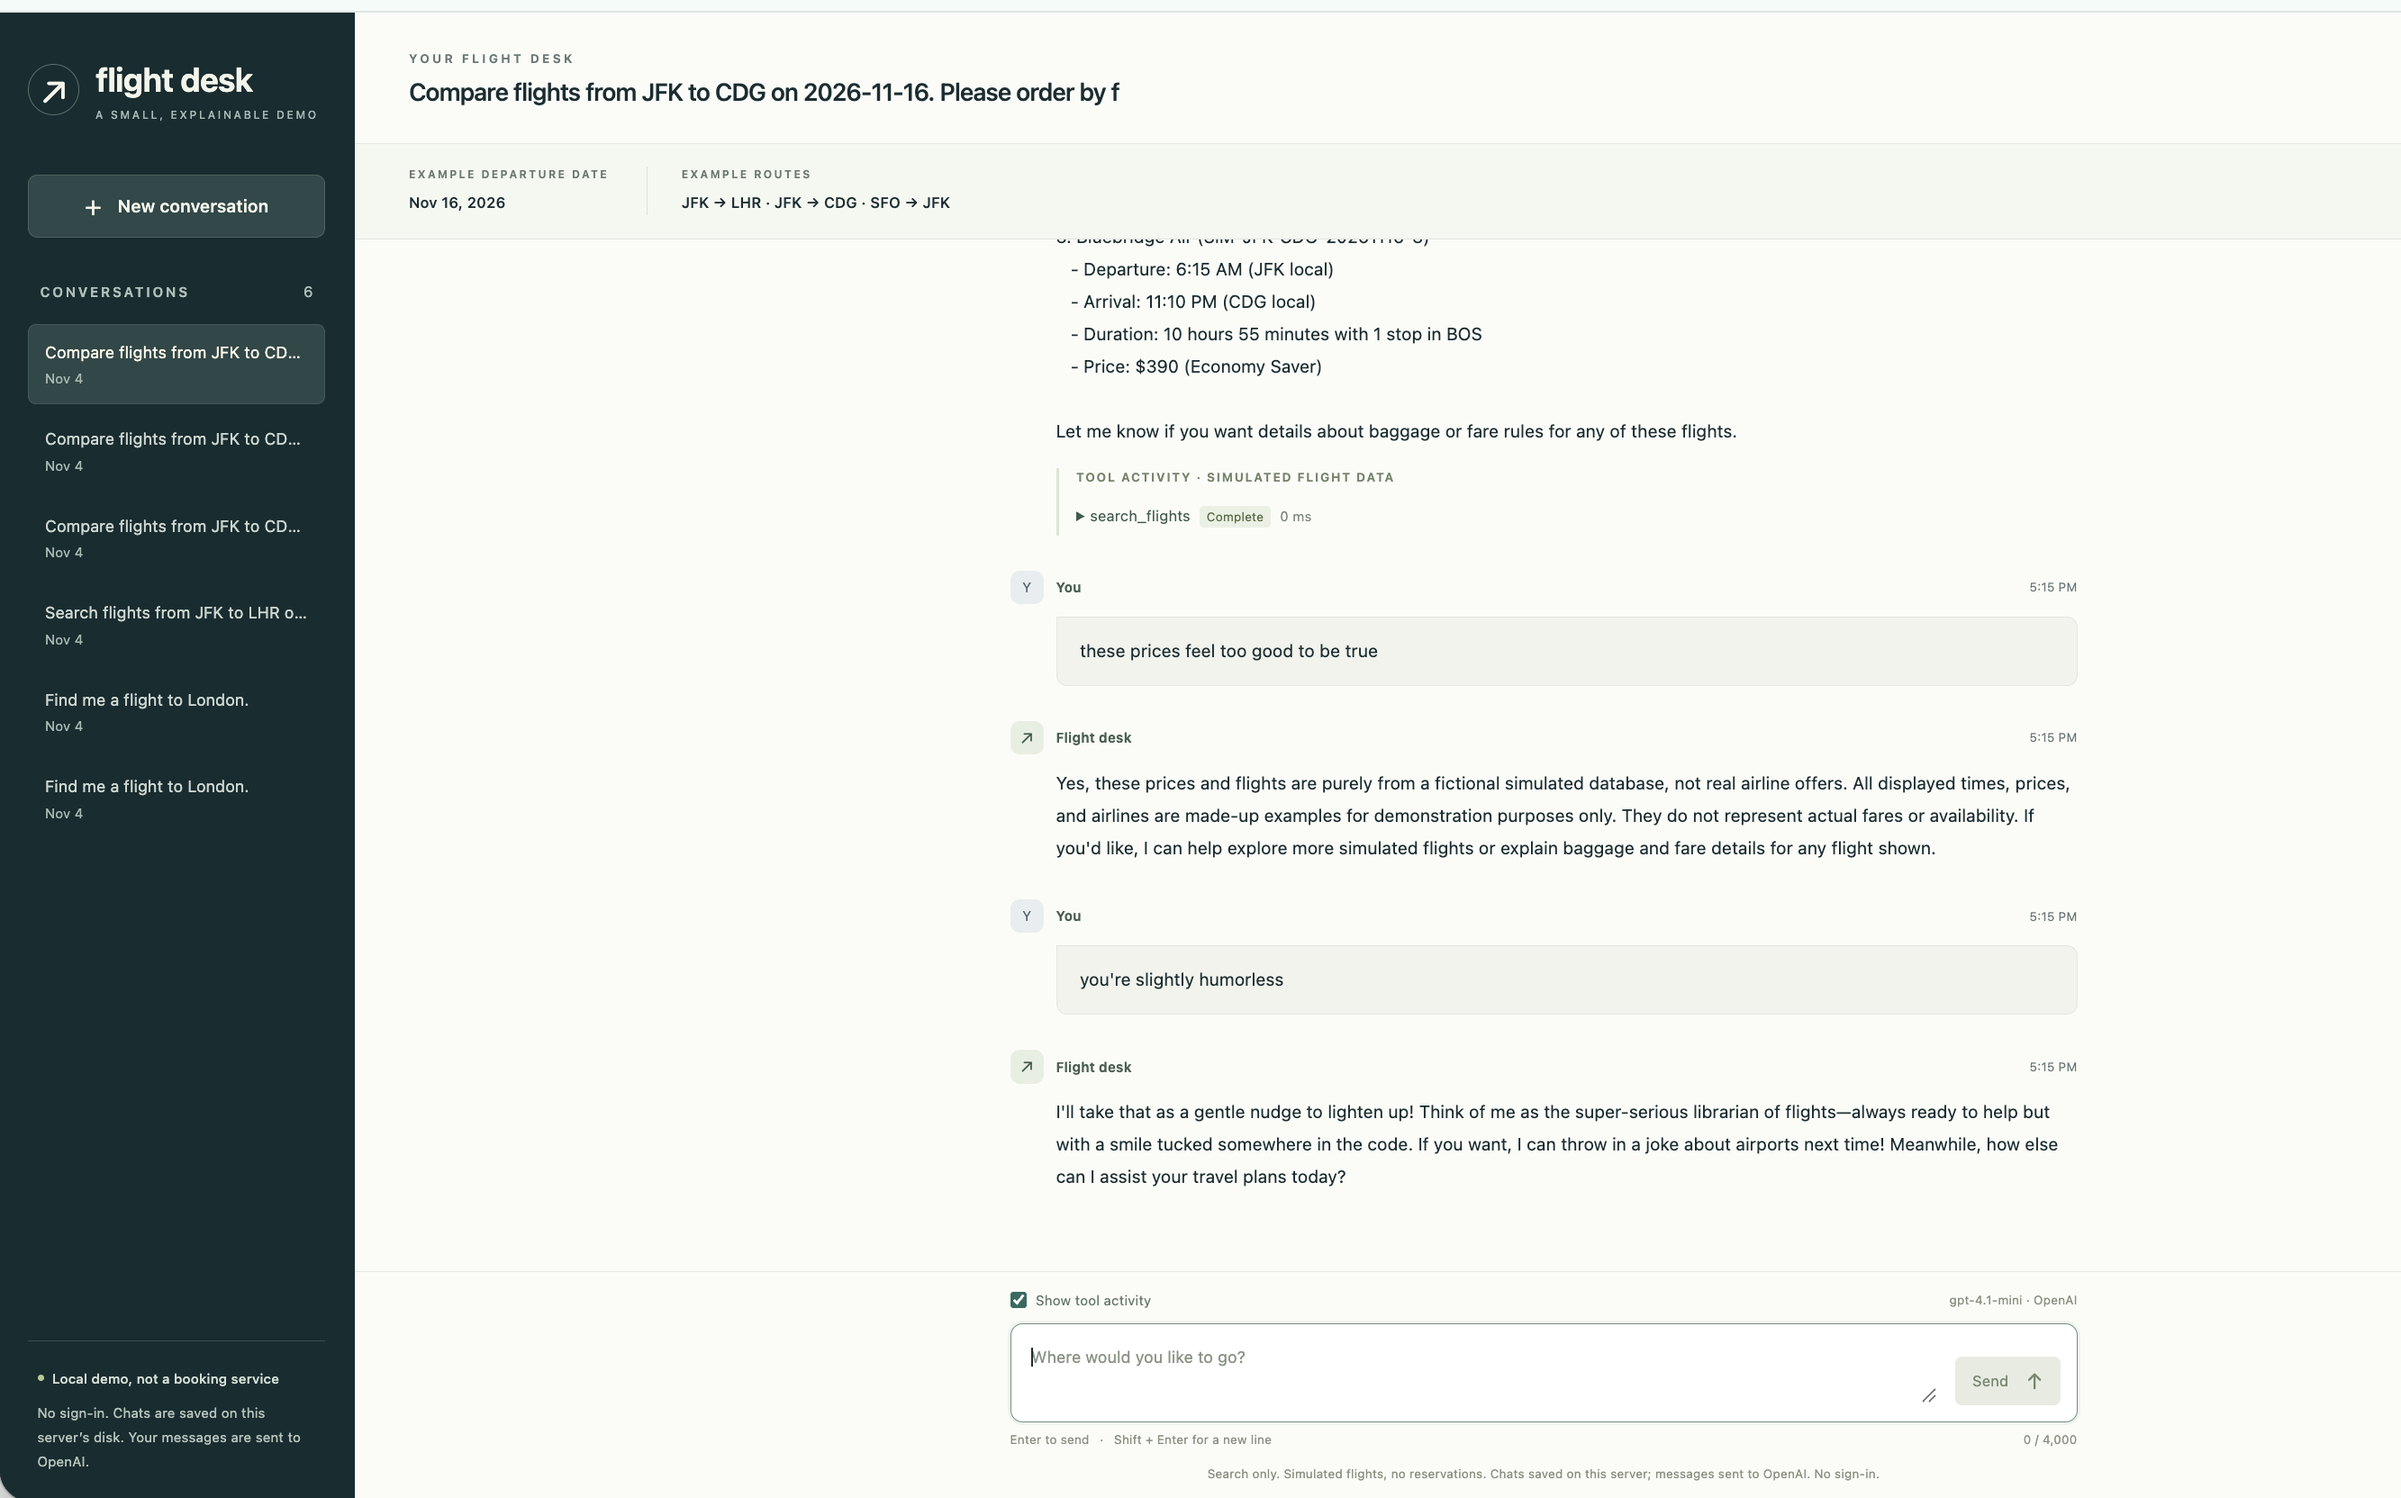
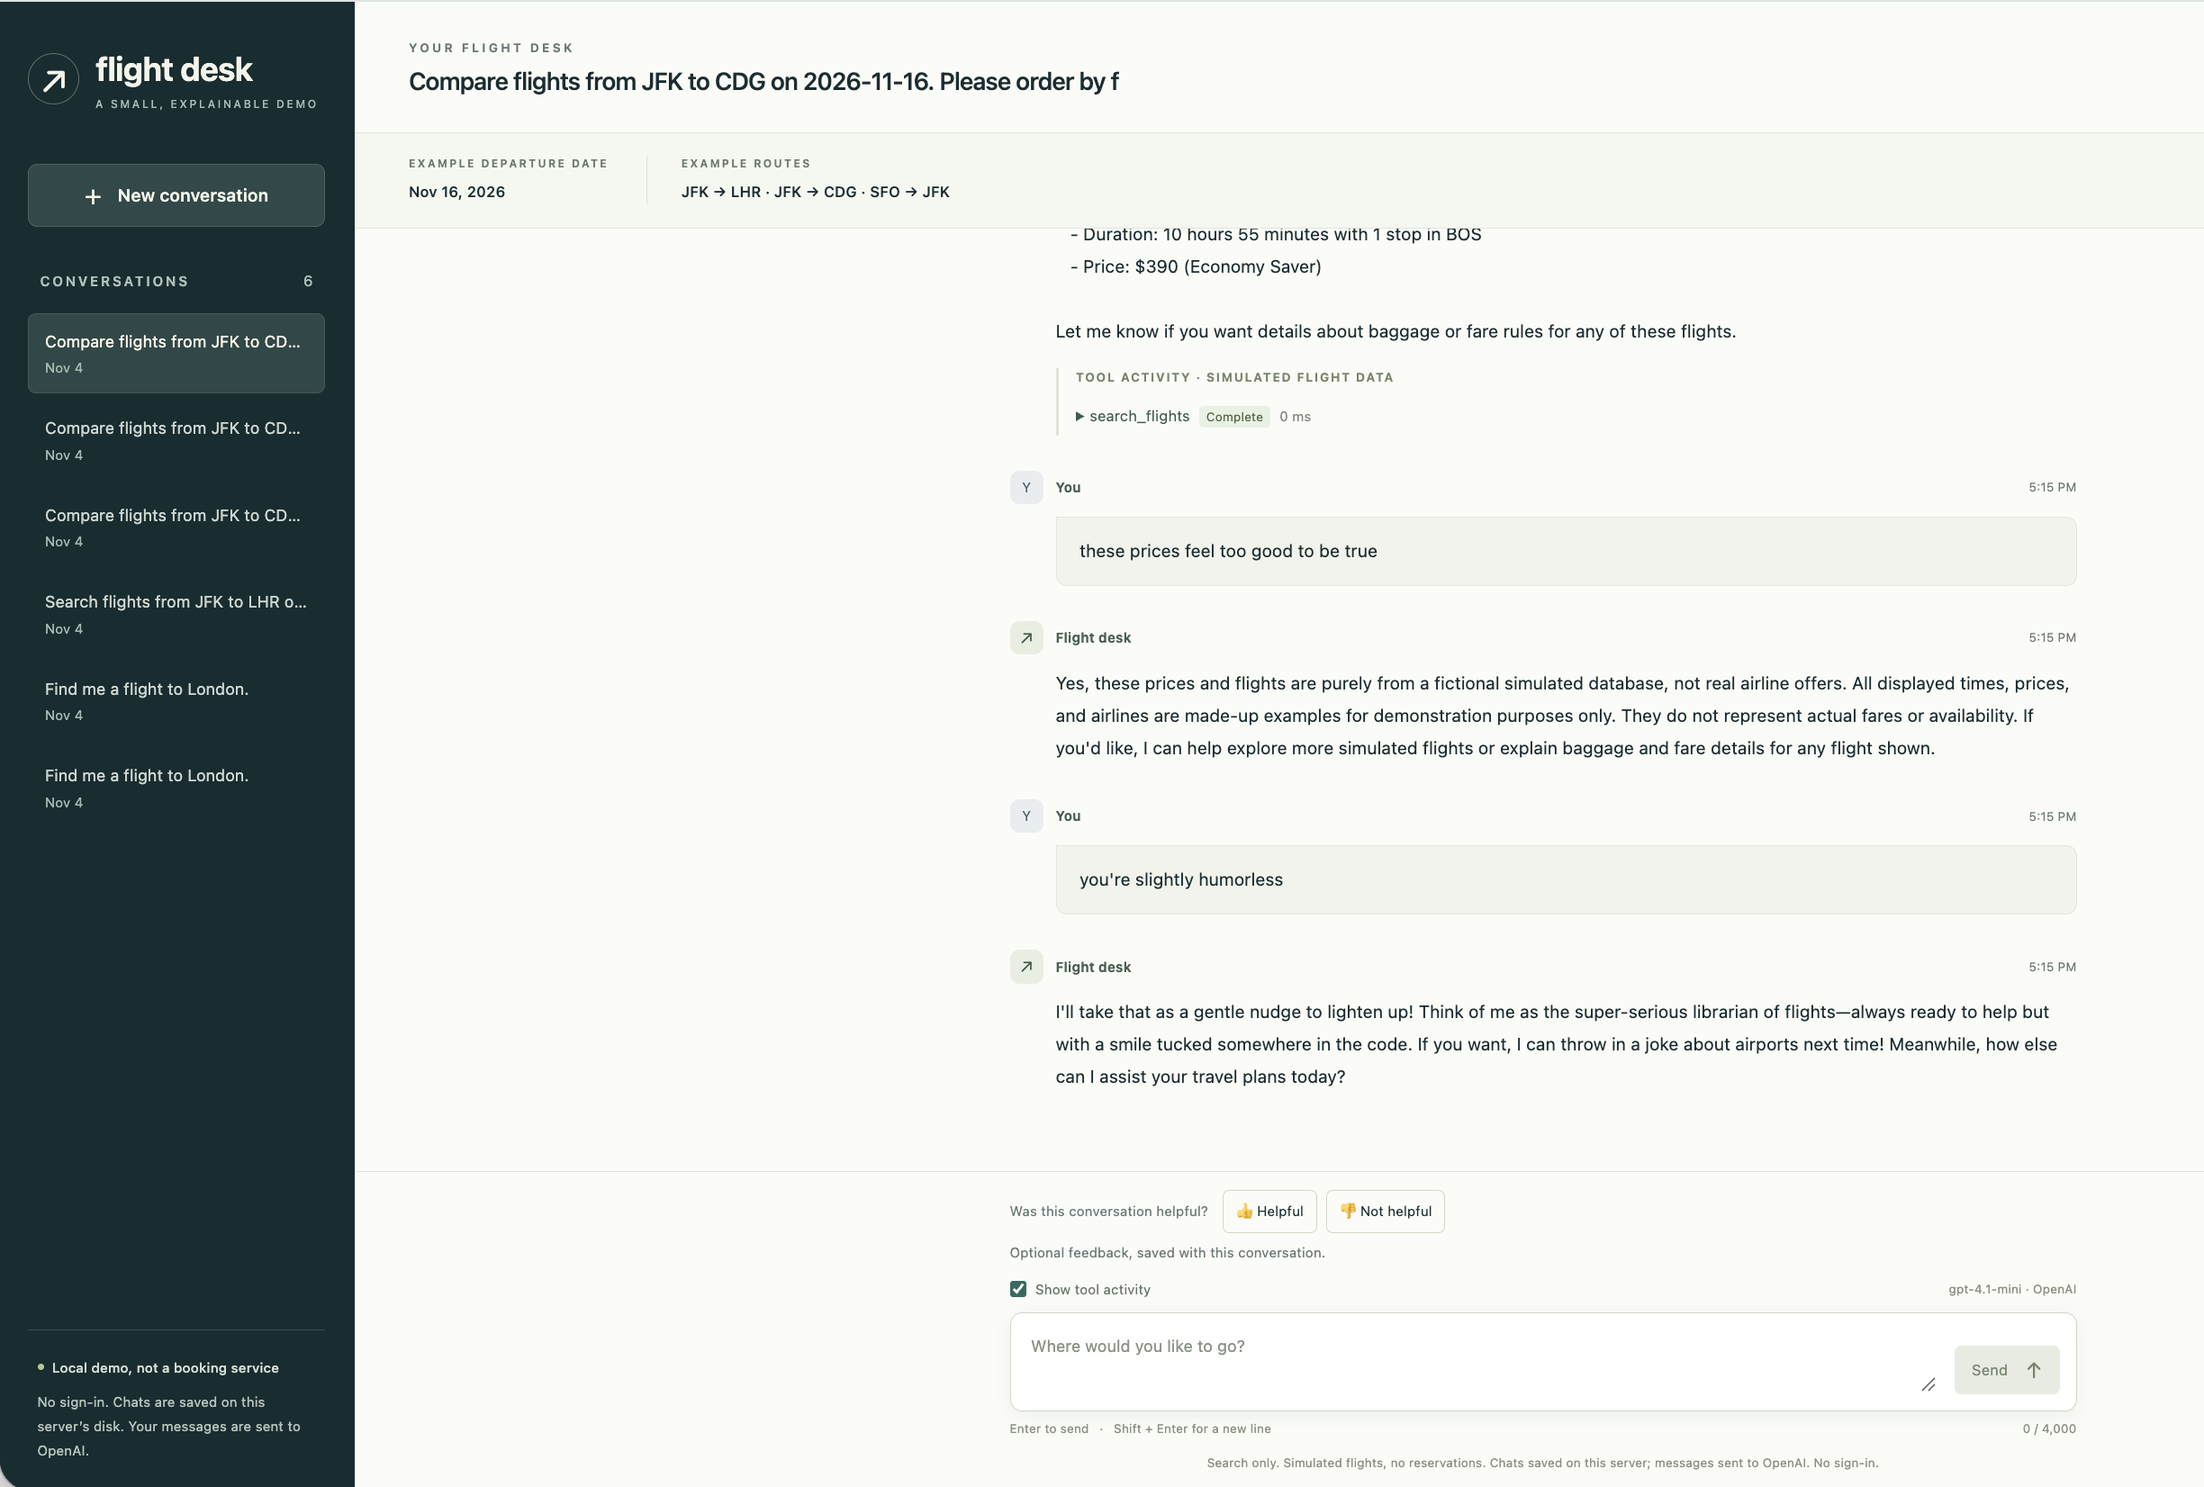
Update images and include ratings

diff --git a/tests/test_api.py b/tests/test_api.py
@@ -45,7 +45,6 @@ def test_successful_http_turn_has_durable_tool_events_and_title(settings, search
         assert saved["title"] == "JFK to LHR on 2026-11-16"
         listed = client.get("/api/conversations").json()["conversations"]
         assert listed[0]["id"] == conversation_id
-        assert set(listed[0]) == {"id", "title", "created_at"}
 
 
 @pytest.mark.parametrize("body", [{"content": ""}, {"content": " \n "}, {"content": "x" * 4001}, {"content": 123}, {}, {"content": "Hi", "extra": True}])
@@ -77,3 +76,44 @@ def test_failure_config_is_explicit_and_credentials_are_not_returned(settings):
         response = client.get("/api/config")
         assert response.json()["tool_failure_enabled"] is True
         assert settings.api_key not in response.text
+
+
+def test_ratings_can_change_clear_and_survive_restart_without_crossing_conversations(settings):
+    with TestClient(create_app(settings, provider=ScriptedProvider())) as client:
+        first = client.post("/api/conversations", json={}).json()
+        second = client.post("/api/conversations", json={}).json()
+        assert first["id"] != second["id"]
+        assert first["rating"] is None
+
+    for rating in ("up", "down", None):
+        with TestClient(create_app(settings, provider=ScriptedProvider())) as client:
+            response = client.put(f"/api/conversations/{first['id']}/rating", json={"rating": rating})
+            assert response.status_code == 200
+            assert response.json() == {"id": first["id"], "rating": rating}
+        with TestClient(create_app(settings, provider=ScriptedProvider())) as restarted:
+            saved = restarted.get(f"/api/conversations/{first['id']}").json()
+            assert saved["rating"] == rating
+            assert saved["messages"] == []
+            assert restarted.get(f"/api/conversations/{second['id']}").json()["rating"] is None
+            listed = restarted.get("/api/conversations").json()["conversations"]
+            assert next(item for item in listed if item["id"] == first["id"])["rating"] == rating
+
+
+@pytest.mark.parametrize("body", [
+    {}, {"rating": "sideways"}, {"rating": 0}, {"rating": True},
+    {"rating": []}, {"rating": {}}, {"rating": "up", "extra": True},
+])
+def test_invalid_ratings_do_not_replace_saved_feedback(settings, body):
+    with TestClient(create_app(settings, provider=ScriptedProvider())) as client:
+        conversation = client.post("/api/conversations", json={}).json()
+        path = f"/api/conversations/{conversation['id']}/rating"
+        client.put(path, json={"rating": "up"})
+        response = client.put(path, json=body)
+        assert response.status_code == 422
+        assert client.get(f"/api/conversations/{conversation['id']}").json()["rating"] == "up"
+
+
+def test_rating_unknown_conversation_returns_not_found(settings):
+    with TestClient(create_app(settings, provider=ScriptedProvider())) as client:
+        assert client.put("/api/conversations/missing/rating", json={"rating": "up"}).status_code == 404
+        assert client.get("/api/conversations").json()["conversations"] == []

diff --git a/tests/test_tools.py b/tests/test_tools.py
@@ -86,7 +86,7 @@ def test_allowlist_and_explicit_failure_mode(search_args):
     assert "flights" not in failed
 
 
-@pytest.mark.parametrize("origin,destination", permutations(AIRPORT_CODES, 2))
+@pytest.mark.parametrize("origin,destination", tuple(permutations(AIRPORT_CODES, 2)))
 @pytest.mark.parametrize("departure_date", ["2027-01-15", "2027-07-15", "2028-02-29"])
 def test_all_supported_routes_and_dates_have_consistent_flights(origin, destination, departure_date):
     query = {"origin": origin, "destination": destination, "date": departure_date, "max_price": None, "nonstop": None}

diff --git a/README.md b/README.md
@@ -2,6 +2,20 @@
 
 A small interview demo of **real LLM tool calling over clearly simulated flight data**. FastAPI serves a lightweight browser UI; SQLite keeps conversations, messages, and tool-call arguments/results/errors. An optional terminal client uses the same backend logic. Search and comparison only: no booking, payment, RAG, or frontend build pipeline.
 
+## Screenshots
+
+**1. Flight comparison** — multiple simulated options ordered by total trip duration.
+
+![Flight comparison showing three simulated flights ordered by duration](docs/images/flight-comparison.png)
+
+**2. Tool trace** — inspect the requested function, arguments, and structured simulated results.
+
+![Expanded search_flights tool call with JSON arguments and results](docs/images/tool-trace.png)
+
+**3. Conversational follow-ups and feedback** — simulated-data disclosure and conversation-level ratings.
+
+![Follow-up conversation with simulated-data explanation and helpful/not-helpful rating controls](docs/images/conversational-followups.png)
+
 ## Run
 
 Requires Python 3.11+ and [uv](https://docs.astral.sh/uv/), plus an OpenAI API key with access to the configured model. LLM calls incur your account's API charges.
